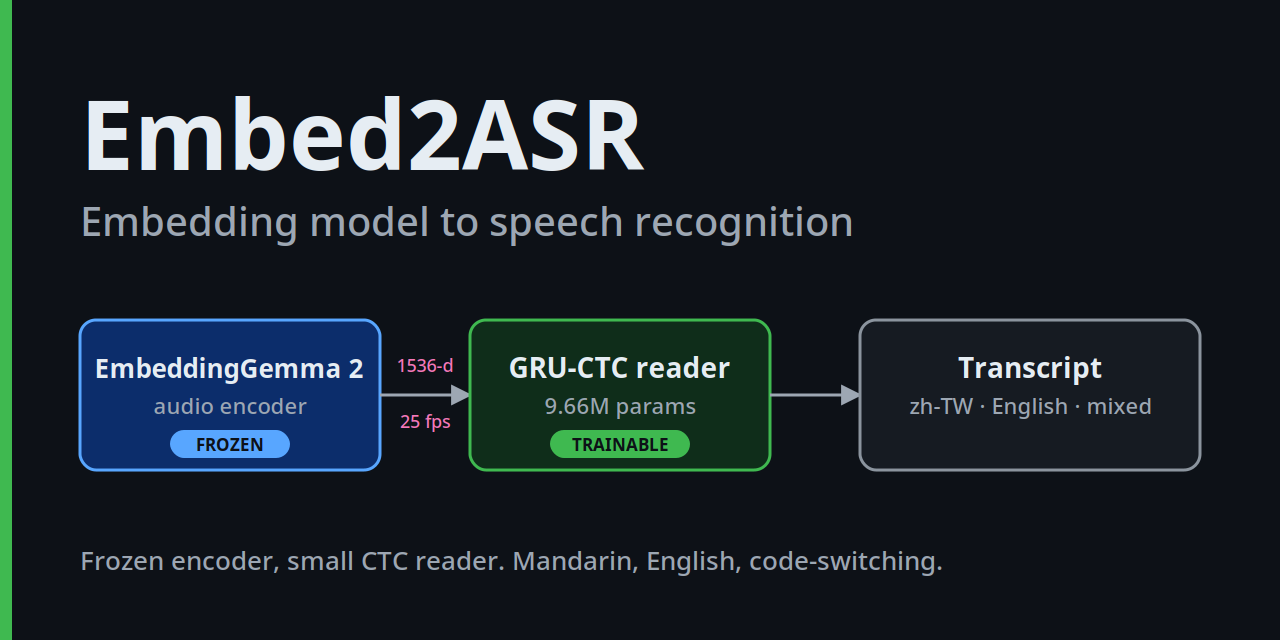
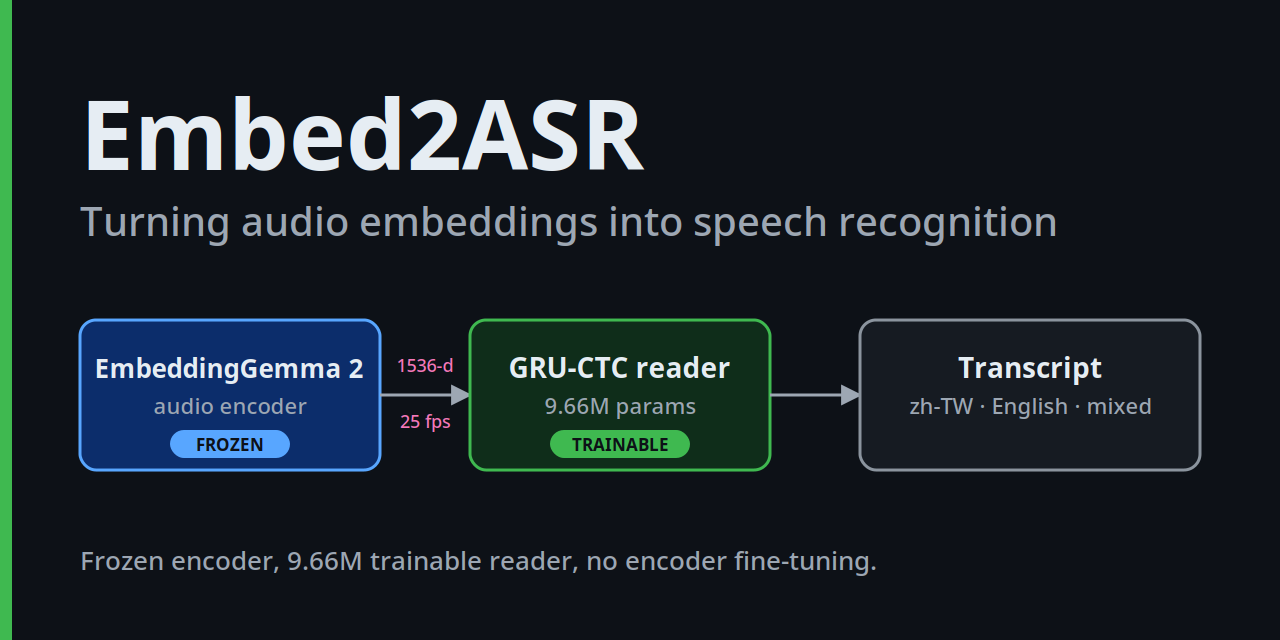
docs: lead the README with the embedding-to-ASR idea

Changed region(s): [[0.0625, 0.3125, 0.8438, 0.4062], [0.2188, 0.8438, 0.75, 0.9062]]

diff --git a/scripts/fill_perf.py b/scripts/fill_perf.py
@@ -6,7 +6,6 @@ Regions are delimited by <!-- PERF:<NAME>:BEGIN --> / <!-- PERF:<NAME>:END -->. 
 unrounded JSON values (same `derive` as make_perf_svg.py). --check fails if any region or assets/performance.svg is stale."""
 
 import json
-import math
 import re
 import subprocess
 import sys
@@ -17,7 +16,7 @@ from make_perf_svg import JSON, ROOT, derive, rtf  # noqa: E402
 
 T = {
     "en": {
-        "hero": "**Up to {sp:.1f}× faster than Whisper large-v3 (batch 1, our setup); over {mem}% lower peak GPU memory.**",
+        "hero": "**{sp:.2f}× faster inference and {mem:.1f}% lower peak GPU memory than Whisper large-v3 at batch 1, measured on the same MI300X and the same clips.**",
         "head": ["", "Embed2ASR-v1", "Whisper large-v3", "Difference"],
         "rtf": "RTF, batch {n} (lower is better)",
         "mem": "Peak GPU memory, batch {n}",
@@ -30,7 +29,7 @@ T = {
             "Whisper uses Hugging Face `generate`, greedy (`num_beams=1`). Embed2ASR at batch 16 uses `cross_file=True` "
             "(chunks of different files are batched together; about 4% of short clips can change by one unit; off by default). "
             "Memory is torch peak allocated, including the full audio encoder and the reader, not whole-process memory. "
-            'Cold start is process start to first output. "Up to" refers to these two batch sizes on this hardware only. '
+            "Cold start is process start to first output. The figures apply to these two batch sizes on this hardware only. "
             "Transcripts can differ by +-1 unit across transformers versions and GPU models (identical within one environment); "
             "this benchmark ran on torch 2.10.0+rocm7.1.1, transformers 5.19.0, MI300X."
         ),
@@ -43,7 +42,7 @@ T = {
         "u16": "per batch of 16",
     },
     "zh": {
-        "hero": "**最高比 Whisper large-v3 快 {sp:.1f} 倍（batch 1，本測試環境）；GPU 峰值記憶體低 {mem}% 以上。**",
+        "hero": "**batch 1 下，推論速度比 Whisper large-v3 快 {sp:.2f} 倍、GPU 峰值記憶體低 {mem:.1f}%，同一張 MI300X、同一批音訊實測。**",
         "head": ["", "Embed2ASR-v1", "Whisper large-v3", "差異"],
         "rtf": "RTF，batch {n}（越低越好）",
         "mem": "GPU 峰值記憶體，batch {n}",
@@ -56,7 +55,7 @@ T = {
             "Whisper 使用 Hugging Face `generate`，greedy（`num_beams=1`）。Embed2ASR 在 batch 16 使用 `cross_file=True`"
             "（不同檔案的片段混批；約 4% 的短句可能差 1 個單位；預設關閉）。"
             "記憶體是 torch 的 peak allocated，含完整 audio encoder 與 reader，不是整個 process 的用量。"
-            "冷啟動是從程序啟動到第一個輸出。「最高」只代表這兩個 batch size 與這組硬體。"
+            "冷啟動是從程序啟動到第一個輸出。數字只適用於這兩個 batch size 與這組硬體。"
             "轉寫結果在不同 transformers 版本與 GPU 型號之間可能有 ±1 個單位的差異（同一環境內結果一致）；"
             "本次 benchmark 環境為 torch 2.10.0+rocm7.1.1、transformers 5.19.0、MI300X。"
         ),
@@ -106,7 +105,7 @@ def regions(d: dict, lang: str) -> dict:
         det.append(row([t["d_res"].format(n=n), *(f"{x[bs]['peak_reserved_gib']:.2f} GiB" for x in (e, w))]))
         det.append(row([t["d_pass"].format(n=n), *(", ".join(rtf(p) for p in x[bs]["rtf_passes"]) for x in (e, w))]))
     return {
-        "HERO": t["hero"].format(sp=v["speedup_bs1"], mem=math.floor(v["mem_cut_bs1"] * 100)),
+        "HERO": t["hero"].format(sp=v["speedup_bs1"], mem=v["mem_cut_bs1"] * 100),
         "TABLE": "\n".join(tab),
         "COND": t["cond"].format(n=c["clips"], m=t["clips"], a=c["audio_seconds"]),
         "DETAIL": "\n".join(det),

diff --git a/README.md b/README.md
@@ -1,10 +1,8 @@
-# Embed2ASR
+# Embed2ASR — Turning Audio Embeddings into Speech Recognition
 
-**Can an Embedding Model Become a Speech Recognition Model?**
+**A frozen embedding encoder. A 9.66M trainable reader. Speech transcription without encoder fine-tuning.**
 
-We froze Google's EmbeddingGemma 2 audio encoder and trained a lightweight GRU-CTC reader to turn temporal embeddings into speech transcripts.
-
-[English](README.md) · [繁體中文](README.zh-TW.md)
+[English](README.md) · [繁體中文](README.zh-TW.md) · [Quick start](#quick-start) · [Benchmarks](docs/benchmarks.md) · [Model on Hugging Face](https://huggingface.co/tc3oliver/Embed2ASR-v1)
 
 ![Python 3.10+](https://img.shields.io/badge/python-3.10%2B-blue)
 ![License: Apache-2.0](https://img.shields.io/badge/license-Apache--2.0-blue)
@@ -12,13 +10,17 @@ We froze Google's EmbeddingGemma 2 audio encoder and trained a lightweight GRU-C
 [![Release](https://img.shields.io/github/v/release/tc3oliver/embed2asr)](https://github.com/tc3oliver/embed2asr/releases)
 [![Hugging Face](https://img.shields.io/badge/%F0%9F%A4%97-Embed2ASR--v1-yellow)](https://huggingface.co/tc3oliver/Embed2ASR-v1)
 
-<!-- PERF:HERO:BEGIN -->
-**Up to 4.2× faster than Whisper large-v3 (batch 1, our setup); over 76% lower peak GPU memory.**
-<!-- PERF:HERO:END -->
+We repurposed an audio embedding model for speech recognition without fine-tuning its encoder. Embed2ASR takes the pre-pooling `last_hidden_state` of Google's EmbeddingGemma 2 audio encoder (1536-d frames, 25 per second; not the final pooled embedding vector) and decodes it with a 9,655,172-parameter GRU-CTC reader.
 
-Frozen EmbeddingGemma 2 audio encoder + 9.66M-parameter GRU-CTC reader.
+<p align="center"><img src="assets/overview.svg" alt="Audio goes into the frozen EmbeddingGemma 2 audio encoder. Its pre-pooling last_hidden_state (1536-d, 25 frames per second) is fed to a trainable 9,655,172-parameter GRU-CTC reader that outputs the transcript. The original embed_audio and pooling path is not used." width="880"></p>
+
+**Why it matters.** Can pretrained embedding representations be reused for tasks they weren't originally designed to perform? This project is one measured answer for audio embeddings and speech recognition (Mandarin, English and code-switching).
 
 ## Performance at a glance
+
+<!-- PERF:HERO:BEGIN -->
+**4.16× faster inference and 76.5% lower peak GPU memory than Whisper large-v3 at batch 1, measured on the same MI300X and the same clips.**
+<!-- PERF:HERO:END -->
 
 <p align="center"><img src="assets/performance.svg" alt="Bar charts: Embed2ASR-v1 vs Whisper large-v3 on one MI300X. Real-time factor at batch 1 and batch 16, peak GPU memory, lower is better." width="640"></p>
 
@@ -33,14 +35,14 @@ Frozen EmbeddingGemma 2 audio encoder + 9.66M-parameter GRU-CTC reader.
 <!-- PERF:TABLE:END -->
 
 <!-- PERF:COND:BEGIN -->
-Setup: one MI300X, idle before the run; ROCm 7.1, torch 2.10; bf16 for both systems. 200 clips (100 Mandarin + 100 English), 1,086 s of audio. Timing covers audio decode, features, model and text, not model loading; median of 3 passes after 1 warm-up. Whisper uses Hugging Face `generate`, greedy (`num_beams=1`). Embed2ASR at batch 16 uses `cross_file=True` (chunks of different files are batched together; about 4% of short clips can change by one unit; off by default). Memory is torch peak allocated, including the full audio encoder and the reader, not whole-process memory. Cold start is process start to first output. "Up to" refers to these two batch sizes on this hardware only. Transcripts can differ by +-1 unit across transformers versions and GPU models (identical within one environment); this benchmark ran on torch 2.10.0+rocm7.1.1, transformers 5.19.0, MI300X.
+Setup: one MI300X, idle before the run; ROCm 7.1, torch 2.10; bf16 for both systems. 200 clips (100 Mandarin + 100 English), 1,086 s of audio. Timing covers audio decode, features, model and text, not model loading; median of 3 passes after 1 warm-up. Whisper uses Hugging Face `generate`, greedy (`num_beams=1`). Embed2ASR at batch 16 uses `cross_file=True` (chunks of different files are batched together; about 4% of short clips can change by one unit; off by default). Memory is torch peak allocated, including the full audio encoder and the reader, not whole-process memory. Cold start is process start to first output. The figures apply to these two batch sizes on this hardware only. Transcripts can differ by +-1 unit across transformers versions and GPU models (identical within one environment); this benchmark ran on torch 2.10.0+rocm7.1.1, transformers 5.19.0, MI300X.
 <!-- PERF:COND:END -->
+
+This compares two different systems. The gap comes from several things we did not ablate (loaded model size, CTC versus autoregressive decoding, this test setup), so read it as a measurement of this pipeline, not as a property of embedding models. Accuracy is lower than Whisper large-v3 on most test sets: see [Accuracy](#accuracy-vs-whisper-large-v3).
 
 Full protocol and extra numbers: [docs/benchmarks.md](docs/benchmarks.md).
 
 ## Architecture
-
-<p align="center"><img src="assets/overview.svg" alt="Audio goes into the frozen EmbeddingGemma 2 audio encoder. Its last_hidden_state (1536-d, 25 frames per second) is tapped before embed_audio and pooling and fed to a trainable 9,655,172-parameter GRU-CTC reader that outputs a transcript. The original embedding path is unused." width="880"></p>
 
 The encoder is never updated. Only the 9,655,172-parameter reader is trained. About 314.5M parameters are loaded for inference.
 

diff --git a/README.zh-TW.md b/README.zh-TW.md
@@ -1,10 +1,8 @@
-# Embed2ASR
+# Embed2ASR — 把音訊 Embedding 變成語音辨識
 
-**Embedding 模型能變成語音辨識模型嗎？**
+**凍結的 embedding encoder，加上 9.66M 可訓練的 reader，不微調 encoder 就能轉寫語音。**
 
-我們凍結 Google EmbeddingGemma 2 的音訊 encoder，只訓練一個輕量的 GRU-CTC reader，把時間序列 embedding 轉成語音逐字稿。
-
-[English](README.md) · [繁體中文](README.zh-TW.md)
+[English](README.md) · [繁體中文](README.zh-TW.md) · [快速開始](#快速開始) · [Benchmark](docs/benchmarks.md) · [Hugging Face 模型](https://huggingface.co/tc3oliver/Embed2ASR-v1)
 
 ![Python 3.10+](https://img.shields.io/badge/python-3.10%2B-blue)
 ![License: Apache-2.0](https://img.shields.io/badge/license-Apache--2.0-blue)
@@ -12,13 +10,17 @@
 [![Release](https://img.shields.io/github/v/release/tc3oliver/embed2asr)](https://github.com/tc3oliver/embed2asr/releases)
 [![Hugging Face](https://img.shields.io/badge/%F0%9F%A4%97-Embed2ASR--v1-yellow)](https://huggingface.co/tc3oliver/Embed2ASR-v1)
 
-<!-- PERF:HERO:BEGIN -->
-**最高比 Whisper large-v3 快 4.2 倍（batch 1，本測試環境）；GPU 峰值記憶體低 76% 以上。**
-<!-- PERF:HERO:END -->
+我們把一個音訊 embedding 模型改用於語音辨識，而且不微調它的 encoder。Embed2ASR 取 Google EmbeddingGemma 2 audio encoder 在 pooling 之前的 `last_hidden_state`（1536 維、每秒 25 個 frame；不是最後的 pooled embedding 向量），交給 9,655,172 參數的 GRU-CTC reader 解碼。
 
-凍結的 EmbeddingGemma 2 音訊 encoder + 9.66M 參數的 GRU-CTC reader。
+<p align="center"><img src="assets/overview.svg" alt="音訊進入凍結的 EmbeddingGemma 2 audio encoder，pooling 之前的 last_hidden_state（1536 維、每秒 25 frame）交給可訓練的 9,655,172 參數 GRU-CTC reader，輸出逐字稿。原本的 embed_audio 與 pooling 路徑不使用。" width="880"></p>
+
+**為什麼重要。** 預訓練的 embedding 表徵，能不能重用在它原本沒被設計去做的任務上？這個專案針對音訊 embedding 與語音辨識（中文、英文、中英混用）給出一個有實測的答案。
 
 ## 效能一覽
+
+<!-- PERF:HERO:BEGIN -->
+**batch 1 下，推論速度比 Whisper large-v3 快 4.16 倍、GPU 峰值記憶體低 76.5%，同一張 MI300X、同一批音訊實測。**
+<!-- PERF:HERO:END -->
 
 <p align="center"><img src="assets/performance.svg" alt="長條圖：Embed2ASR-v1 與 Whisper large-v3 在單張 MI300X 上的 RTF（batch 1 與 batch 16）與 GPU 峰值記憶體，越低越好。" width="640"></p>
 
@@ -33,14 +35,14 @@
 <!-- PERF:TABLE:END -->
 
 <!-- PERF:COND:BEGIN -->
-測試條件：單張 MI300X，測前閒置；ROCm 7.1、torch 2.10；兩者都用 bf16。200 段音訊（中文 100 + 英文 100），共 1,086 秒。計時包含音檔解碼、特徵、模型與文字輸出，不含模型載入；暖機 1 次後取 3 輪中位數。Whisper 使用 Hugging Face `generate`，greedy（`num_beams=1`）。Embed2ASR 在 batch 16 使用 `cross_file=True`（不同檔案的片段混批；約 4% 的短句可能差 1 個單位；預設關閉）。記憶體是 torch 的 peak allocated，含完整 audio encoder 與 reader，不是整個 process 的用量。冷啟動是從程序啟動到第一個輸出。「最高」只代表這兩個 batch size 與這組硬體。轉寫結果在不同 transformers 版本與 GPU 型號之間可能有 ±1 個單位的差異（同一環境內結果一致）；本次 benchmark 環境為 torch 2.10.0+rocm7.1.1、transformers 5.19.0、MI300X。
+測試條件：單張 MI300X，測前閒置；ROCm 7.1、torch 2.10；兩者都用 bf16。200 段音訊（中文 100 + 英文 100），共 1,086 秒。計時包含音檔解碼、特徵、模型與文字輸出，不含模型載入；暖機 1 次後取 3 輪中位數。Whisper 使用 Hugging Face `generate`，greedy（`num_beams=1`）。Embed2ASR 在 batch 16 使用 `cross_file=True`（不同檔案的片段混批；約 4% 的短句可能差 1 個單位；預設關閉）。記憶體是 torch 的 peak allocated，含完整 audio encoder 與 reader，不是整個 process 的用量。冷啟動是從程序啟動到第一個輸出。數字只適用於這兩個 batch size 與這組硬體。轉寫結果在不同 transformers 版本與 GPU 型號之間可能有 ±1 個單位的差異（同一環境內結果一致）；本次 benchmark 環境為 torch 2.10.0+rocm7.1.1、transformers 5.19.0、MI300X。
 <!-- PERF:COND:END -->
+
+這是兩個不同系統的比較。差距來自幾個我們沒有做消融的因素（載入的模型大小、CTC 與自回歸解碼的差別、本測試環境），請把它當成這條 pipeline 的實測結果，不要解讀成 embedding 模型本身的特性。多數測試集的準確度低於 Whisper large-v3，見[準確度](#準確度對照-whisper-large-v3)。
 
 完整測試協定與更多數字：[docs/benchmarks.md](docs/benchmarks.md)。
 
 ## 架構
-
-<p align="center"><img src="assets/overview.svg" alt="音訊進入凍結的 EmbeddingGemma 2 音訊 encoder，在 embed_audio 與 pooling 之前取出 last_hidden_state（1536 維、每秒 25 幀），交給可訓練的 9,655,172 參數 GRU-CTC reader 輸出逐字稿。原本的 embedding 路徑沒有使用。" width="880"></p>
 
 Encoder 完全不更新，只訓練 9,655,172 個參數的 reader。推論時載入約 314.5M 參數。
 

diff --git a/docs/benchmarks.md b/docs/benchmarks.md
@@ -21,7 +21,7 @@ Ratios and percentages are computed from the unrounded values in the JSON.
 ### Protocol
 
 <!-- PERF:COND:BEGIN -->
-Setup: one MI300X, idle before the run; ROCm 7.1, torch 2.10; bf16 for both systems. 200 clips (100 Mandarin + 100 English), 1,086 s of audio. Timing covers audio decode, features, model and text, not model loading; median of 3 passes after 1 warm-up. Whisper uses Hugging Face `generate`, greedy (`num_beams=1`). Embed2ASR at batch 16 uses `cross_file=True` (chunks of different files are batched together; about 4% of short clips can change by one unit; off by default). Memory is torch peak allocated, including the full audio encoder and the reader, not whole-process memory. Cold start is process start to first output. "Up to" refers to these two batch sizes on this hardware only. Transcripts can differ by +-1 unit across transformers versions and GPU models (identical within one environment); this benchmark ran on torch 2.10.0+rocm7.1.1, transformers 5.19.0, MI300X.
+Setup: one MI300X, idle before the run; ROCm 7.1, torch 2.10; bf16 for both systems. 200 clips (100 Mandarin + 100 English), 1,086 s of audio. Timing covers audio decode, features, model and text, not model loading; median of 3 passes after 1 warm-up. Whisper uses Hugging Face `generate`, greedy (`num_beams=1`). Embed2ASR at batch 16 uses `cross_file=True` (chunks of different files are batched together; about 4% of short clips can change by one unit; off by default). Memory is torch peak allocated, including the full audio encoder and the reader, not whole-process memory. Cold start is process start to first output. The figures apply to these two batch sizes on this hardware only. Transcripts can differ by +-1 unit across transformers versions and GPU models (identical within one environment); this benchmark ran on torch 2.10.0+rocm7.1.1, transformers 5.19.0, MI300X.
 <!-- PERF:COND:END -->
 
 - Clips: 200 (100 Common Voice zh-TW, 100 LibriSpeech test-clean), 1,085.6 s of audio in total. Batches never mix languages. Audio is decoded with ffmpeg inside the timed region; files are in the page cache.
